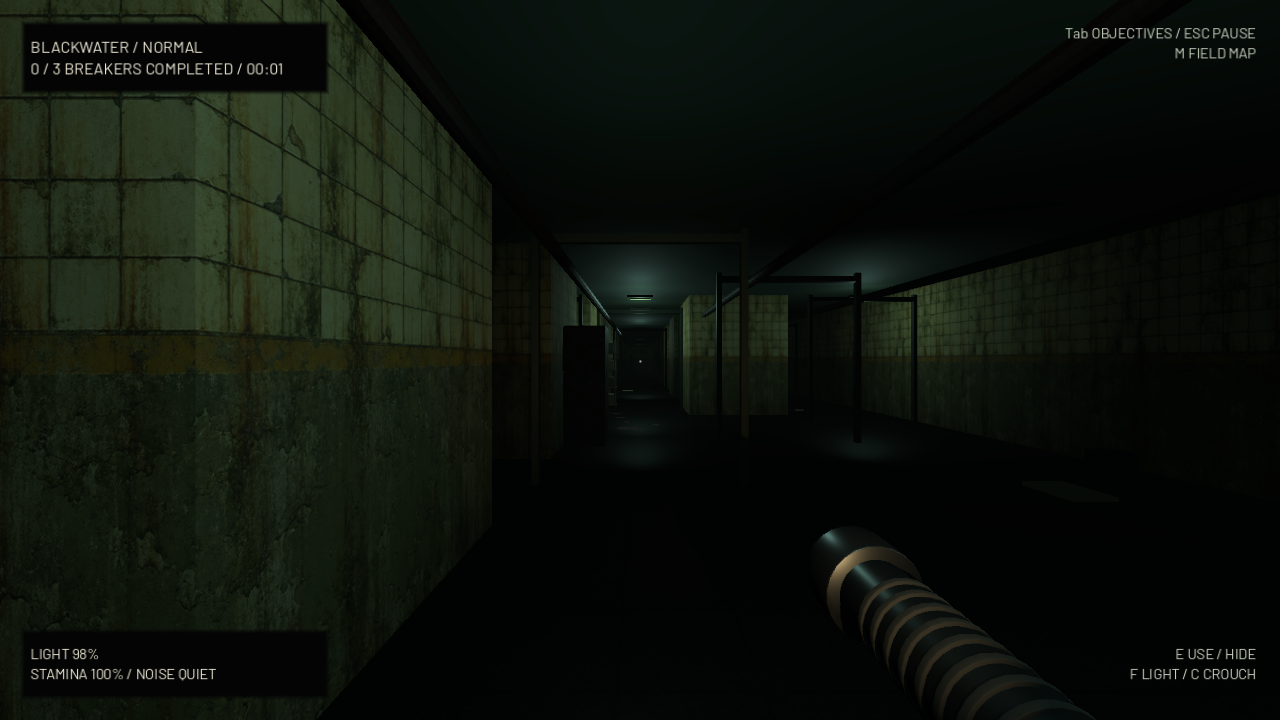
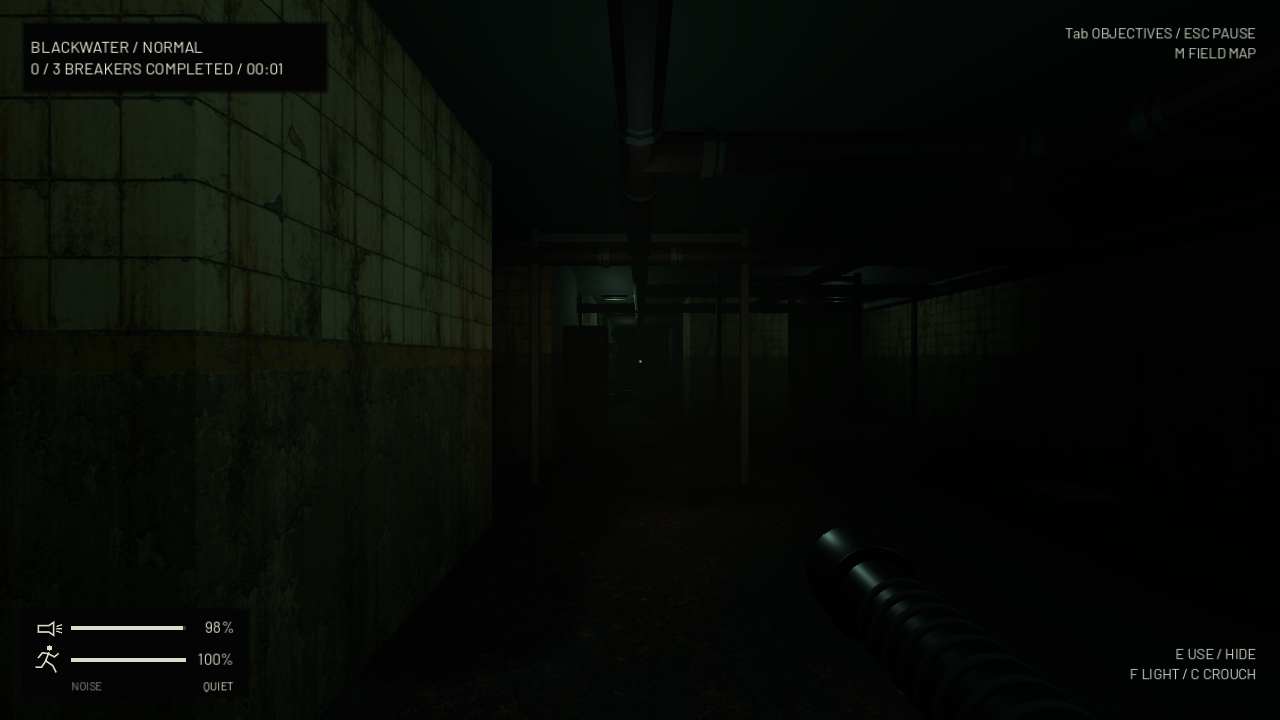
fix(release): ship atmosphere repairs in 0.23.2

diff --git a/docs/index.html b/docs/index.html
@@ -15,53 +15,53 @@
 <body>
 <a class="skip" href="#main">Skip to content</a>
 <header class="masthead">
-  <a class="brand" href="#" aria-label="The Hollow Below home"><span class="brand-mark" aria-hidden="true">H<span>â†“</span>B</span><span>THE HOLLOW BELOW<small>BLACKWATER / BRIARWAKE</small></span></a>
-  <nav aria-label="Main navigation"><a href="#station">Blackwater</a><a href="#briarwake">Briarwake</a><a href="#field-notes">Field notes</a><a class="nav-play" href="#play">Play alpha <span aria-hidden="true">â†—</span></a></nav>
+  <a class="brand" href="#" aria-label="The Hollow Below home"><span class="brand-mark" aria-hidden="true">H<span>↓</span>B</span><span>THE HOLLOW BELOW<small>BLACKWATER / BRIARWAKE</small></span></a>
+  <nav aria-label="Main navigation"><a href="#station">Blackwater</a><a href="#briarwake">Briarwake</a><a href="#field-notes">Field notes</a><a class="nav-play" href="#play">Play alpha <span aria-hidden="true">↗</span></a></nav>
 </header>
 <main id="main">
   <section class="hero" aria-labelledby="game-title">
     <img class="hero-image" src="./assets/station-key-art.png" alt="Key art: a lone figure beneath a red beacon in a flooded pumping station" fetchpriority="high">
     <div class="hero-shade"></div>
     <div class="hero-copy">
-      <p class="eyebrow"><span class="signal" aria-hidden="true"></span> FREE PLAYABLE ALPHA <span class="build-number">/ 0.23.1</span></p>
+      <p class="eyebrow"><span class="signal" aria-hidden="true"></span> FREE PLAYABLE ALPHA <span class="build-number">/ 0.23.2</span></p>
       <h1 id="game-title">THE HOLLOW<br><span>BELOW</span><i>.</i></h1>
       <p class="tagline">Something down here<br>still remembers your name.</p>
-      <div class="hero-actions"><a class="button primary" href="https://github.com/RyanVerWey/the-hollow-below-alpha/releases/download/v0.23.1/The-Hollow-Below-Alpha-Setup.exe" data-installer-download download>DOWNLOAD INSTALLER <span aria-hidden="true">â†“</span></a></div>
-      <p class="platform-note">Windows 10 / 11 Â· Solo / 2â€“4 player co-op Â· Keyboard &amp; mouse</p>
+      <div class="hero-actions"><a class="button primary" href="https://github.com/RyanVerWey/the-hollow-below-alpha/releases/download/v0.23.2/The-Hollow-Below-Alpha-Setup.exe" data-installer-download download>DOWNLOAD INSTALLER <span aria-hidden="true">↓</span></a></div>
+      <p class="platform-note">Windows 10 / 11 · Solo / 2–4 player co-op · Keyboard &amp; mouse</p>
     </div>
-    <div class="hero-bottom"><span>BLACKWATER MUNICIPAL AUTHORITY<br><small>INCIDENT RECORD / 013</small></span><button class="sound-toggle" id="sound-toggle" type="button" aria-pressed="false"><span aria-hidden="true">â™«</span> LISTEN TO THE STATION</button><span class="key-art-label">KEY ART / NOT A GAMEPLAY CAPTURE</span></div>
+    <div class="hero-bottom"><span>BLACKWATER MUNICIPAL AUTHORITY<br><small>INCIDENT RECORD / 013</small></span><button class="sound-toggle" id="sound-toggle" type="button" aria-pressed="false"><span aria-hidden="true">♫</span> LISTEN TO THE STATION</button><span class="key-art-label">KEY ART / NOT A GAMEPLAY CAPTURE</span></div>
   </section>
   <section class="station section" id="station" aria-labelledby="station-title">
     <p class="eyebrow section-index">01 / THE DESCENT</p>
     <div class="station-intro"><h2 id="station-title">THE POWER IS OUT.<br><span>YOU ARE NOT ALONE.</span></h2><div><p>The floodgate circuit has gone dark. Below Blackwater, the corridors are filling with haze. Find three breakers, restore the circuit, and get back to the entrance.</p><p>Keep your footsteps quiet. Whatever is moving through the station can hear you.</p></div></div>
-    <figure class="gameplay-wide"><img src="./assets/haze-gameplay.png" alt="Godot alpha gameplay: the Blackwater station corridor lit by a limited flashlight" loading="lazy"><figcaption><span>IN-GAME CAPTURE / ALPHA 0.23.1</span><span>VISIBILITY: LIMITED</span></figcaption></figure>
+    <figure class="gameplay-wide"><img src="./assets/haze-gameplay.png" alt="Godot alpha gameplay: the Blackwater station corridor lit by a limited flashlight" loading="lazy"><figcaption><span>IN-GAME CAPTURE / ALPHA 0.23.2</span><span>VISIBILITY: LIMITED</span></figcaption></figure>
     <div class="survival-notes"><article><span class="note-number">I.</span><h3>Spend your light wisely.</h3><p>Your flashlight drains. Switch it off to recover power, and listen before you move.</p></article><article><span class="note-number">II.</span><h3>It follows the noise.</h3><p>Running carries through the station. Crouch, change direction, and break its line of sight.</p></article><article><span class="note-number">III.</span><h3>Hide before it sees you.</h3><p>A locker buys you time. If it watches you climb inside, it already knows where to look.</p></article></div>
   </section>
   <section class="briarwake section" id="briarwake" aria-labelledby="briarwake-title">
     <p class="eyebrow section-index">NEW DESCENT / INCLUDED IN ALPHA 0.18</p>
-    <div class="station-intro"><h2 id="briarwake-title">THE GARDEN<br><span>KEEPS ITS DEAD.</span></h2><div><p>Beyond Blackwater lies Briarwake Estate. Towering hedges, cold night mist, and a gardener who never stopped working.</p><p>Study the maze in the safe potting house. Restore three wards for stronger light, a bell that staggers the hunter, and thorn shortcuts. Then reach the estate gate before the chainsaw reaches you.</p><p class="briarwake-availability">PLAYABLE NOW Â· FOUR DIFFICULTIES Â· ONE WINDOWS DOWNLOAD</p></div></div>
+    <div class="station-intro"><h2 id="briarwake-title">THE GARDEN<br><span>KEEPS ITS DEAD.</span></h2><div><p>Beyond Blackwater lies Briarwake Estate. Towering hedges, cold night mist, and a gardener who never stopped working.</p><p>Study the maze in the safe potting house. Restore three wards for stronger light, a bell that staggers the hunter, and thorn shortcuts. Then reach the estate gate before the chainsaw reaches you.</p><p class="briarwake-availability">PLAYABLE NOW · FOUR DIFFICULTIES · ONE WINDOWS DOWNLOAD</p></div></div>
     <figure class="gameplay-wide"><img src="./assets/briarwake-gameplay.png" alt="Godot alpha gameplay: dim lantern light and haze in the Briarwake hedge corridors" loading="lazy"><figcaption><span>ACTUAL GAMEPLAY / BRIARWAKE ESTATE</span><span>LISTEN FOR THE SAW</span></figcaption></figure>
   </section>
   <section class="play-section section" id="play" aria-labelledby="play-title">
     <div class="play-heading"><p class="eyebrow">02 / ACCESS AUTHORIZED</p><h2 id="play-title">GO BELOW.</h2><p>Free alpha. No account. No engine to install.</p></div>
     <div class="download-panel">
-      <div class="release-line"><span class="availability"><span class="signal" aria-hidden="true"></span> ALPHA AVAILABLE</span><span id="release-version">BUILD 0.23.1</span></div>
+      <div class="release-line"><span class="availability"><span class="signal" aria-hidden="true"></span> ALPHA AVAILABLE</span><span id="release-version">BUILD 0.23.2</span></div>
       <h3>WINDOWS ALPHA</h3><p class="download-description">The full game and its own launcher in one Windows installer. Install once, then return through your desktop or Start menu shortcut.</p>
-      <a class="button primary download-launcher" href="https://github.com/RyanVerWey/the-hollow-below-alpha/releases/download/v0.23.1/The-Hollow-Below-Alpha-Setup.exe" data-installer-download download>DOWNLOAD INSTALLER <span aria-hidden="true">â†“</span></a>
-      <p class="download-facts" id="download-facts">Windows 10 / 11, 64-bit Â· Full installer: 280.1 MB</p>
+      <a class="button primary download-launcher" href="https://github.com/RyanVerWey/the-hollow-below-alpha/releases/download/v0.23.2/The-Hollow-Below-Alpha-Setup.exe" data-installer-download download>DOWNLOAD INSTALLER <span aria-hidden="true">↓</span></a>
+      <p class="download-facts" id="download-facts">Windows 10 / 11, 64-bit · Full installer: 286.6 MB</p>
       <ol class="install-steps"><li>Open the installer and choose <b>Install</b>.</li><li>Open the launcher and choose <b>Play game</b>.</li><li>Return using your desktop or Start menu shortcut.</li></ol>
       <p class="alpha-note">Early, unsigned alpha software. Windows may show a publisher warning. There is no save system yet.</p>
-      <p class="launcher-features">Game-file verification Â· Offline play Â· No administrator needed<br>Uninstall through Windows Installed apps.</p>
+      <p class="launcher-features">Game-file verification · Offline play · No administrator needed<br>Uninstall through Windows Installed apps.</p>
     </div>
     <p class="content-note">CONTAINS: jump scares, blood, frightening imagery, darkness, and sudden loud sounds. Headphones recommended; comfortable volume first.</p>
   </section>
   <section class="field-section section" id="field-notes" aria-labelledby="notes-title">
     <div class="field-heading"><p class="eyebrow">03 / FIELD NOTES</p><h2 id="notes-title">BEFORE YOU ENTER.</h2></div>
     <div class="field-grid"><div class="controls"><h3>Keep these close.</h3><dl><div><dt>Move</dt><dd>W A S D</dd></div><div><dt>Look</dt><dd>MOUSE / ARROWS</dd></div><div><dt>Sprint</dt><dd>SHIFT</dd></div><div><dt>Crouch</dt><dd>C / CTRL</dd></div><div><dt>Flashlight</dt><dd>F</dd></div><div><dt>Use / hide</dt><dd>E</dd></div><div><dt>Objectives</dt><dd>TAB</dd></div><div><dt>Survey in staging</dt><dd>M</dd></div><div><dt>Difficulty in staging</dt><dd>R</dd></div><div><dt>Pause</dt><dd>ESC</dd></div></dl></div>
-    <div class="faq"><details open><summary>What is in this alpha?</summary><p>Godot alpha 0.23.1 restores the original interface and level materials, repairs hunter patrols and pursuit, and softens the menu audio. Everyone in a co-op group must update; Unity and Godot versions cannot join each other. Play solo or host private co-op for 2â€“4 players using invite codes. Choose from four survivors and save your own display name. The host selects either level and difficulty. Survivors start separately, share objectives and map discoveries, and must each escape. Death or escape lets you spectate. The host must stay connected; online menus do not pause the hunt. Internet is required for co-op; solo play remains offline. Two playable nightmares: Blackwater pumping station and Briarwake Estate, a moonlit hedge maze. Briarwake now has original Blender tree, ivy, stone lantern and ward models, a curved-root thorn demon, damp dirt paths, tighter corridors, animated haze and a starry blood-moon sky. Its chainsaw attacks have a visible windup, a committed swing and recovery; cover and retreat can prevent a hit. Briarwake has a safe potting house, dim lanterns, cold haze, tool shelters and the Thornkeeper: a demonic farmer carrying a chainsaw. Restore three wards in any order. The Lantern Ward strengthens guide lights and doubles portable-lantern endurance; the Wind Bell adds player tracking and a reusable nearby stagger; the Root Altar opens three thorn shortcuts. Any ward unlocks the M-toggle survey; seen objectives are recorded on the map; unseen locations remain hidden. Restore all three and return to the estate gate. Hear the saw approach before you see him. Both levels share the same HUD, map legend, objective checklist, pause controls and settings. Found objectives gain amber map pins; completed objectives turn green. Both levels offer Easy, Normal, Hard and Nightmare, with different routes, lighting, equipment and hunting. Nightmare removes portable light and sprint and locks most hiding places. Blackwater retains its breaker progression and live field map. Electrical buzzing grows louder near unpowered breakers, carries around corners and stops when restored. In Briarwake, follow lantern wind and loose metal, a creaking bell hanger with dull clapper, or dry root groans to dormant wards. Each falls silent when restored. Its harmless corner scares now have roughly half the former cooldown, with shorter retries when placement fails. Corn Maze and Stone Labyrinth remain Coming Soon. TAB shows objectives; Escape pauses and resumes. Restarting or leaving a run requires confirmation that progress will not be saved. Controls &amp; settings offers Fullscreen, Borderless and Windowed, resolution, three graphics presets, V-Sync and a frame limit. Display changes revert unless confirmed. The title menu includes Quit to desktop.</p></details><details><summary>How do I play with friends?</summary><p>Open Play with Friends, enter your name and host a private lobby. Share its invite code with up to three friends. Everyone chooses a survivor and readies up; the host chooses the level and difficulty and starts the descent. You begin in different maze sectors, share objective progress and each need to reach the exit. No account or port forwarding is needed. Co-op requires Internet; the host must keep the game open. Menus do not pause online play. Solo play remains available offline.</p></details><details><summary>How do updates work?</summary><p>The launcher checks for updates when it opens. When a newer alpha is available, choose Update &amp; restart. It downloads and verifies the full installer, installs the update, and reopens the launcher. Close the game before updating. Installed play stays available offline. Older launchers need the latest full installer once to enable this feature.</p></details><details><summary>Can I play on my phone or with a controller?</summary><p>This alpha is built for a desktop keyboard and mouse. Mobile, controller support and saved progress are not available.</p></details><details><summary>Is this on Steam?</summary><p>Not yet. This is an early independent playtest, shared directly while the game grows.</p></details><details><summary>Found something broken?</summary><p>Send the person who shared the game your build number, Windows version, what happened, and the steps that caused it. A screenshot helps. Windows logs: <code>%APPDATA%\Godot\app_userdata\The Hollow Below\logs</code>.</p></details></div></div>
+    <div class="faq"><details open><summary>What is in this alpha?</summary><p>Godot alpha 0.23.2. Repairs first-person light shadows and the overlapping floor in the station safe room. The torch and lantern no longer project their own held-model shadows. Everyone in a co-op group should update. Play solo or host private co-op for 2–4 players using invite codes. Choose from four survivors and save your own display name. The host selects either level and difficulty. Survivors start separately, share objectives and map discoveries, and must each escape. Death or escape lets you spectate. The host must stay connected; online menus do not pause the hunt. Internet is required for co-op; solo play remains offline. Two playable nightmares: Blackwater pumping station and Briarwake Estate, a moonlit hedge maze. Briarwake now has original Blender tree, ivy, stone lantern and ward models, a curved-root thorn demon, damp dirt paths, tighter corridors, animated haze and a starry blood-moon sky. Its chainsaw attacks have a visible windup, a committed swing and recovery; cover and retreat can prevent a hit. Briarwake has a safe potting house, dim lanterns, cold haze, tool shelters and the Thornkeeper: a demonic farmer carrying a chainsaw. Restore three wards in any order. The Lantern Ward strengthens guide lights and doubles portable-lantern endurance; the Wind Bell adds player tracking and a reusable nearby stagger; the Root Altar opens three thorn shortcuts. Any ward unlocks the M-toggle survey; seen objectives are recorded on the map; unseen locations remain hidden. Restore all three and return to the estate gate. Hear the saw approach before you see him. Both levels share the same HUD, map legend, objective checklist, pause controls and settings. Found objectives gain amber map pins; completed objectives turn green. Both levels offer Easy, Normal, Hard and Nightmare, with different routes, lighting, equipment and hunting. Nightmare removes portable light and sprint and locks most hiding places. Blackwater retains its breaker progression and live field map. Electrical buzzing grows louder near unpowered breakers, carries around corners and stops when restored. In Briarwake, follow lantern wind and loose metal, a creaking bell hanger with dull clapper, or dry root groans to dormant wards. Each falls silent when restored. Its harmless corner scares now have roughly half the former cooldown, with shorter retries when placement fails. Corn Maze and Stone Labyrinth remain Coming Soon. TAB shows objectives; Escape pauses and resumes. Restarting or leaving a run requires confirmation that progress will not be saved. Controls &amp; settings offers Fullscreen, Borderless and Windowed, resolution, three graphics presets, V-Sync and a frame limit. Display changes revert unless confirmed. The title menu includes Quit to desktop.</p></details><details><summary>How do I play with friends?</summary><p>Open Play with Friends, enter your name and host a private lobby. Share its invite code with up to three friends. Everyone chooses a survivor and readies up; the host chooses the level and difficulty and starts the descent. You begin in different maze sectors, share objective progress and each need to reach the exit. No account or port forwarding is needed. Co-op requires Internet; the host must keep the game open. Menus do not pause online play. Solo play remains available offline.</p></details><details><summary>How do updates work?</summary><p>The launcher checks for updates when it opens. When a newer alpha is available, choose Update &amp; restart. It downloads and verifies the full installer, installs the update, and reopens the launcher. Close the game before updating. Installed play stays available offline. Older launchers need the latest full installer once to enable this feature.</p></details><details><summary>Can I play on my phone or with a controller?</summary><p>This alpha is built for a desktop keyboard and mouse. Mobile, controller support and saved progress are not available.</p></details><details><summary>Is this on Steam?</summary><p>Not yet. This is an early independent playtest, shared directly while the game grows.</p></details><details><summary>Found something broken?</summary><p>Send the person who shared the game your build number, Windows version, what happened, and the steps that caused it. A screenshot helps. Windows logs: <code>%APPDATA%\Godot\app_userdata\The Hollow Below\logs</code>.</p></details></div></div>
   </section>
 </main>
-<footer class="footer"><a class="brand footer-brand" href="#">THE HOLLOW BELOW<span>THE STATION IS STILL LISTENING.</span></a><button id="share" class="inline-button" type="button">Copy playtest link <span aria-hidden="true">â†—</span></button><p>Independent horror alpha Â· 2026<br><a href="./assets/audio-credits.txt">Audio credits</a></p><span id="share-status" class="sr-only" role="status"></span></footer>
+<footer class="footer"><a class="brand footer-brand" href="#">THE HOLLOW BELOW<span>THE STATION IS STILL LISTENING.</span></a><button id="share" class="inline-button" type="button">Copy playtest link <span aria-hidden="true">↗</span></button><p>Independent horror alpha · 2026<br><a href="./assets/audio-credits.txt">Audio credits</a></p><span id="share-status" class="sr-only" role="status"></span></footer>
 <audio id="station-audio" src="./assets/station-ambience.ogg" preload="none" loop></audio>
 <script type="module" src="./site.js?v=a965def4b5c5"></script>
 </body></html>

diff --git a/README.md b/README.md
@@ -1,13 +1,13 @@
 # The Hollow Below
 
-Free Windows horror alpha. Solo and private 2Ã¢â‚¬â€œ4 player co-op. Keyboard and mouse.
+Free Windows horror alpha. Solo and private 2Ã¢â‚¬“4 player co-op. Keyboard and mouse.
 
 ## Play
 
 - **[Official playtest website](https://ryanverwey.github.io/the-hollow-below-alpha/)**
-- **[Download the Windows installer](https://github.com/RyanVerWey/the-hollow-below-alpha/releases/download/v0.23.1/The-Hollow-Below-Alpha-Setup.exe)**
+- **[Download the Windows installer](https://github.com/RyanVerWey/the-hollow-below-alpha/releases/download/v0.23.2/The-Hollow-Below-Alpha-Setup.exe)**
 
-- [Release files and notes](https://github.com/RyanVerWey/the-hollow-below-alpha/releases/tag/v0.23.1)
+- [Release files and notes](https://github.com/RyanVerWey/the-hollow-below-alpha/releases/tag/v0.23.2)
 
 On Windows, open the installer, choose **Install**, then open the launcher and choose **Play game**. Desktop and Start menu shortcuts are included. The launcher checks for updates when opened. Choose **Update & restart** to download, verify and install a newer release, then reopen the launcher. Close the game first. Installed play works offline. Launchers from before this feature need the latest full installer once. Portable copies are updated manually. No administrator access or game development tools are required.
 
@@ -31,5 +31,9 @@ Briarwake Estate is also playable from Level Select: study the safe potting hous
 Report your build number, Windows version, what happened, and reproduction steps through [Issues](https://github.com/RyanVerWey/the-hollow-below-alpha/issues). Please do not post personal information or full system reports.
 
 ## Godot alpha 0.23.1
+
+Update every player in your group. Godot and Unity builds cannot share lobbies. Godot uses a new settings folder; configure voice chat again if needed.
+
+## Godot alpha 0.23.2
 
 Update every player in your group. Godot and Unity builds cannot share lobbies. Godot uses a new settings folder; configure voice chat again if needed.
